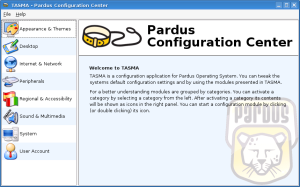
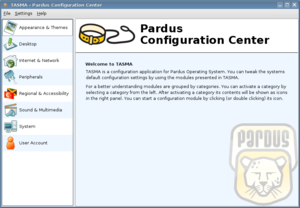
yeni ekran görüntüleri

diff --git a/web/miss/eng/projects/masaustu/tasma/index.html b/web/miss/eng/projects/masaustu/tasma/index.html
@@ -59,8 +59,8 @@ pardus system by requirements
                   <td><img src="../../../images/tasma-en-2.png"></td>
                 </tr>
                 <tr>
-                  <td><img src="../../../images/tasma-en-5.png"></td>
-                  <td><img src="../../../images/tasma-en-6.png"></td>
+                  <td><img src="../../../images/tasma-en-3.png"></td>
+                  <td><img src="../../../images/tasma-en-4.png"></td>
                 </tr>
               </tbody>
             </table>
